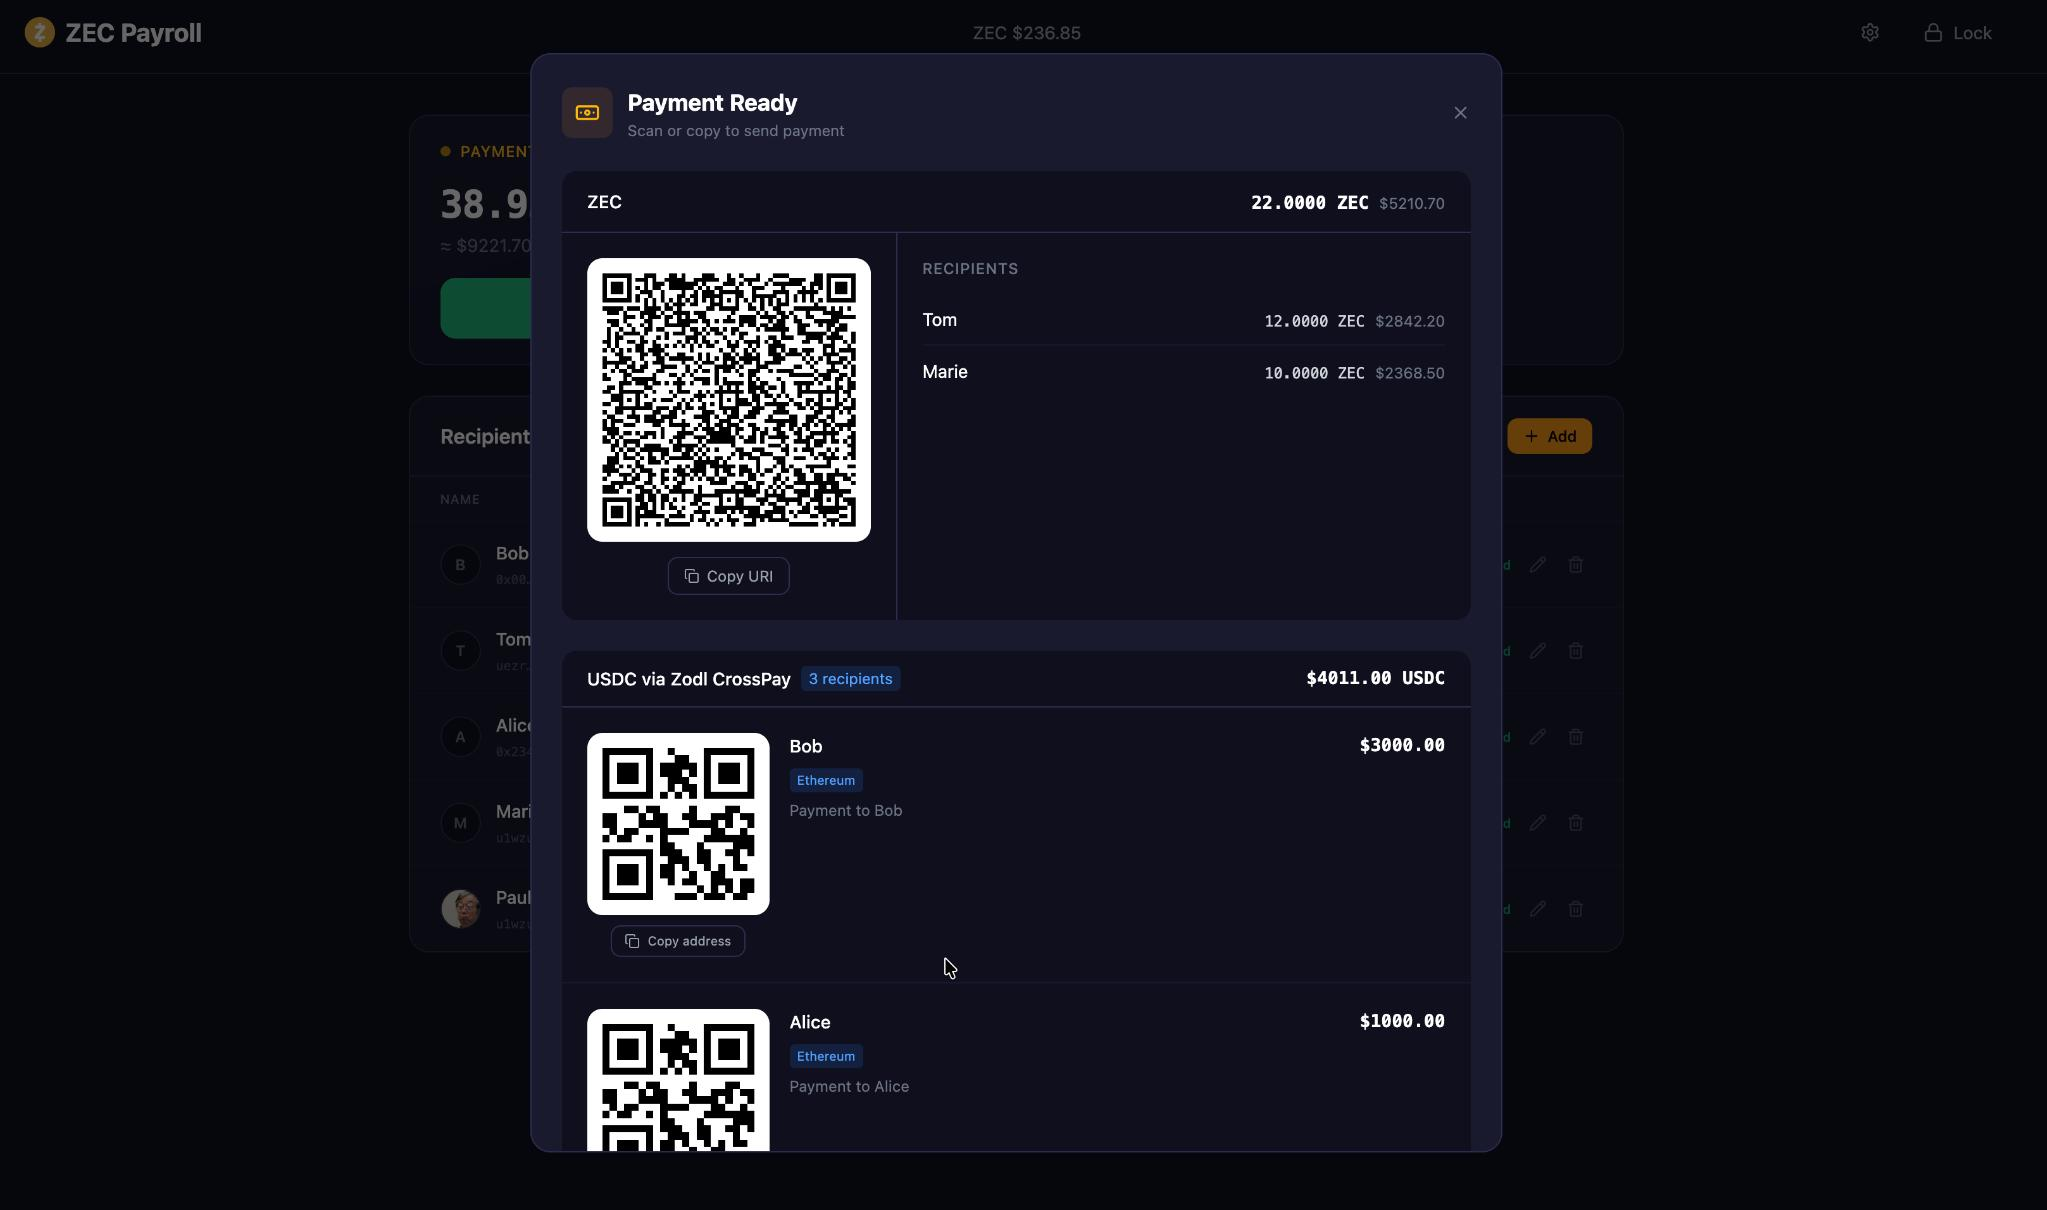
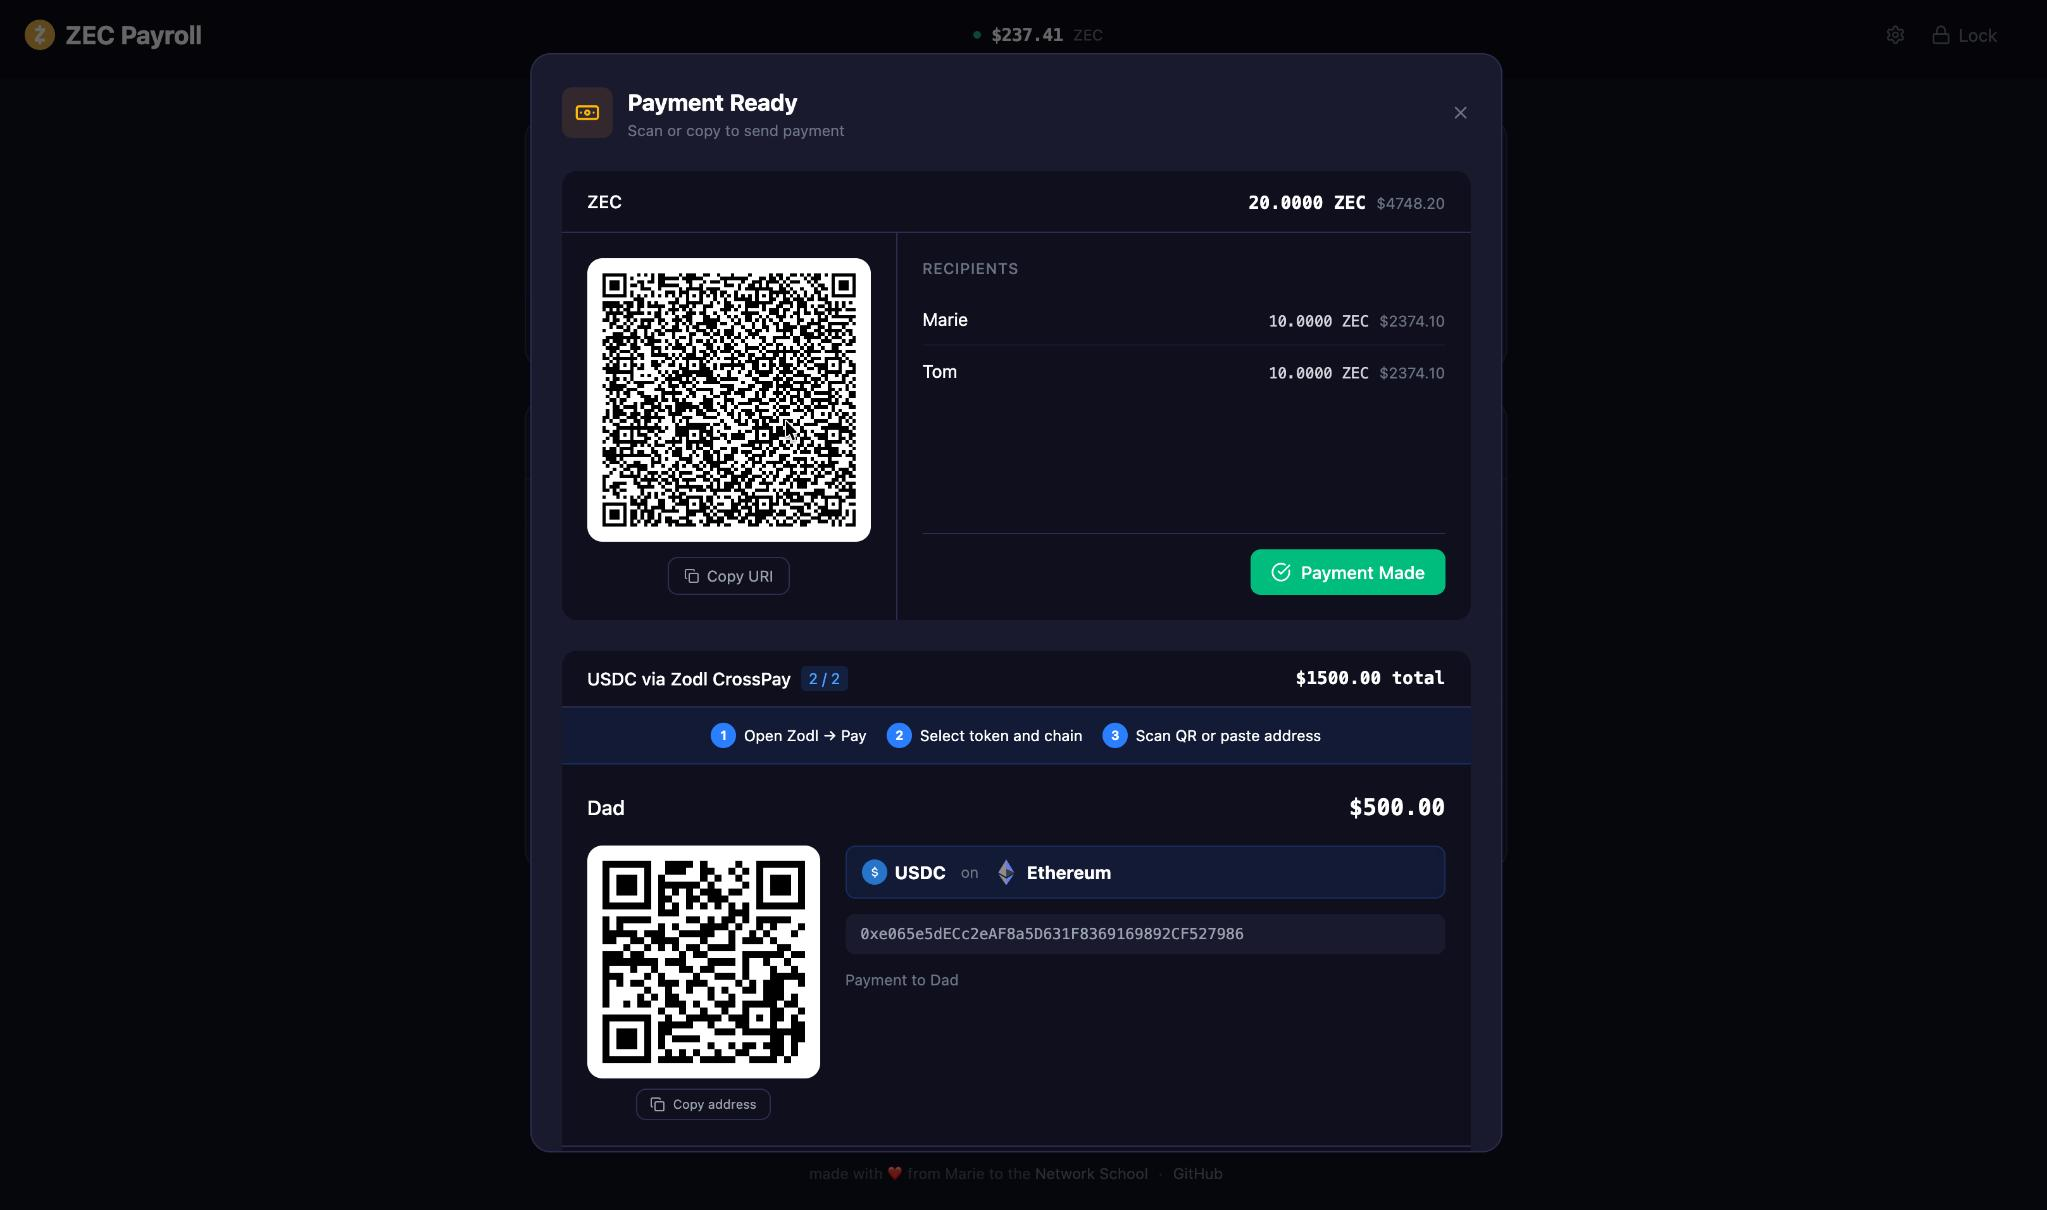
update pay design

diff --git a/web/src/App.tsx b/web/src/App.tsx
@@ -8,6 +8,7 @@ import { AddRecipientForm } from "./components/AddRecipientForm";
 import { EditRecipientForm } from "./components/EditRecipientForm";
 import { EditableRecipientInfo } from "./components/EditableRecipientInfo";
 import { TelegramSettings } from "./components/TelegramSettings";
+import { CHAINS } from "./components/ChainSelect";
 import { QRCodeSVG } from "qrcode.react";
 import {
   Lock, CheckCircle, Pencil, Settings, Search, Copy, Check,
@@ -51,6 +52,9 @@ function MainView({ onLock }: { onLock: () => void }) {
   const [priceLoading, setPriceLoading] = useState(false);
   const [payLoading, setPayLoading] = useState(false);
   const [confirmLoading, setConfirmLoading] = useState(false);
+  const [usdcStep, setUsdcStep] = useState(0);
+  const [usdcConfirmed, setUsdcConfirmed] = useState<Set<number>>(new Set());
+  const [zecConfirmed, setZecConfirmed] = useState(false);
   const [error, setError] = useState("");
 
   const [showAdd, setShowAdd] = useState(false);
@@ -184,6 +188,9 @@ function MainView({ onLock }: { onLock: () => void }) {
     setPayLoading(true);
     try {
       const data = await api.pay();
+      setUsdcStep(0);
+      setUsdcConfirmed(new Set());
+      setZecConfirmed(false);
       setPayResult(data);
     } catch (e: unknown) {
       setError(e instanceof Error ? e.message : "Failed to generate payment");
@@ -515,25 +522,52 @@ function MainView({ onLock }: { onLock: () => void }) {
 
           {payResult.zec && (
             <PaymentCard title="ZEC" uri={payResult.zec.uri} payments={payResult.zec.payments}
-              totalZec={payResult.zec.totalZec} zecPrice={price} copied={copied} onCopy={copyUri} />
+              totalZec={payResult.zec.totalZec} zecPrice={price} copied={copied} onCopy={copyUri}
+              confirmed={zecConfirmed} onConfirm={() => setZecConfirmed(true)} />
           )}
-          {payResult.usdc?.crossPay && payResult.usdc.crossPay.length > 0 && (
-            <div className="bg-[#0f0f1e] rounded-xl overflow-hidden">
-              <div className="px-5 py-3 border-b border-[#2d2d52] flex items-center justify-between">
-                <div className="flex items-center gap-2">
-                  <h3 className="text-white font-medium text-sm">USDC via Zodl CrossPay</h3>
-                  <span className="text-xs px-1.5 py-0.5 rounded bg-blue-500/15 text-blue-400">
-                    {payResult.usdc.crossPay.length} recipient{payResult.usdc.crossPay.length !== 1 ? "s" : ""}
-                  </span>
+          {payResult.usdc?.crossPay && payResult.usdc.crossPay.length > 0 && (() => {
+            const cp = payResult.usdc!.crossPay[usdcStep];
+            const total = payResult.usdc!.crossPay.length;
+            return (
+              <div className="bg-[#0f0f1e] rounded-xl overflow-hidden">
+                <div className="px-5 py-3 border-b border-[#2d2d52] flex items-center justify-between">
+                  <div className="flex items-center gap-2">
+                    <h3 className="text-white font-medium text-sm">USDC via Zodl CrossPay</h3>
+                    <span className="text-xs px-1.5 py-0.5 rounded bg-blue-500/15 text-blue-400">
+                      {usdcStep + 1} / {total}
+                    </span>
+                  </div>
+                  <span className="text-white font-bold font-mono text-sm">${payResult.usdc!.totalUsdc.toFixed(2)} total</span>
                 </div>
-                <span className="text-white font-bold font-mono text-sm">${payResult.usdc.totalUsdc.toFixed(2)} USDC</span>
-              </div>
-              <div className="divide-y divide-[#2d2d52]/30">
-                {payResult.usdc.crossPay.map((cp) => (
-                  <div key={cp.name} className="flex flex-col sm:flex-row gap-4 p-5">
+
+                {/* Step-by-step explainer */}
+                <div className="bg-blue-500/10 px-5 py-3 border-b border-blue-500/20">
+                  <div className="flex gap-4 text-xs justify-center">
+                    <div className="flex items-center gap-1.5 text-white">
+                      <span className="w-5 h-5 rounded-full bg-blue-500 flex items-center justify-center text-[10px] font-bold text-white">1</span>
+                      Open Zodl → Pay
+                    </div>
+                    <div className="flex items-center gap-1.5 text-white">
+                      <span className="w-5 h-5 rounded-full bg-blue-500 flex items-center justify-center text-[10px] font-bold text-white">2</span>
+                      Select token and chain
+                    </div>
+                    <div className="flex items-center gap-1.5 text-white">
+                      <span className="w-5 h-5 rounded-full bg-blue-500 flex items-center justify-center text-[10px] font-bold text-white">3</span>
+                      Scan QR or paste address
+                    </div>
+                  </div>
+                </div>
+
+                {/* Current recipient */}
+                <div className="p-5">
+                  <div className="flex items-center justify-between mb-4">
+                    <span className="text-white font-medium">{cp.name}</span>
+                    <span className="text-white font-mono font-bold text-lg">${cp.amount.toFixed(2)}</span>
+                  </div>
+                  <div className="flex flex-col sm:flex-row gap-5">
                     <div className="flex flex-col items-center gap-2 shrink-0">
                       <div className="bg-white rounded-xl p-3">
-                        <QRCodeSVG value={cp.usdcAddress} size={120} />
+                        <QRCodeSVG value={cp.usdcAddress} size={160} />
                       </div>
                       <button onClick={() => copyUri(cp.usdcAddress, cp.name)}
                         className="flex items-center gap-1.5 px-2.5 py-1 text-[10px] rounded-lg border border-[#2d2d52] text-gray-400 hover:text-blue-400 hover:border-blue-500/30 transition-colors">
@@ -541,56 +575,102 @@ function MainView({ onLock }: { onLock: () => void }) {
                         {copied === cp.name ? "Copied!" : "Copy address"}
                       </button>
                     </div>
-                    <div className="flex-1 min-w-0">
-                      <div className="flex items-center justify-between mb-2">
-                        <span className="text-white font-medium text-sm">{cp.name}</span>
-                        <span className="text-white font-mono font-bold text-sm">${cp.amount.toFixed(2)}</span>
-                      </div>
-                      <div className="space-y-1.5">
-                        <div className="flex items-center gap-1.5">
-                          <span className="text-[10px] px-1.5 py-0.5 rounded bg-blue-500/15 text-blue-400 capitalize">{cp.usdcChain}</span>
+                    {(() => {
+                      const chain = CHAINS.find((c) => c.value === cp.usdcChain);
+                      return (
+                        <div className="flex-1 min-w-0 space-y-3">
+                          <div className="flex items-center gap-3 bg-blue-500/10 border border-blue-500/20 rounded-lg px-3 py-2.5">
+                            <div className="flex items-center gap-1.5">
+                              <svg viewBox="0 0 32 32" className="w-5 h-5"><circle cx="16" cy="16" r="16" fill="#2775CA"/><path fill="#fff" d="M20.3 18.4c0-2.1-1.3-2.8-3.8-3.1-1.8-.3-2.2-.7-2.2-1.5s.7-1.3 1.8-1.3c1 0 1.6.4 1.9 1.2a.4.4 0 00.4.3h1a.4.4 0 00.4-.4 3 3 0 00-2.7-2.5v-1.5a.4.4 0 00-.4-.4h-.9a.4.4 0 00-.4.4V11c-1.8.2-3 1.3-3 2.8 0 2 1.2 2.7 3.8 3 1.7.3 2.2.8 2.2 1.6s-.9 1.4-2 1.4c-1.5 0-2-.6-2.2-1.4a.4.4 0 00-.4-.3h-1a.4.4 0 00-.3.5c.3 1.4 1.2 2.3 3 2.5v1.5c0 .2.1.4.3.4h1c.2 0 .4-.2.4-.4v-1.5c1.8-.3 3-1.4 3-3z"/></svg>
+                              <span className="text-sm font-bold text-white">USDC</span>
+                            </div>
+                            <span className="text-gray-500 text-xs">on</span>
+                            <div className="flex items-center gap-1.5">
+                              {chain && <div className="w-5 h-5">{chain.icon}</div>}
+                              <span className="text-sm font-bold text-white">{chain?.label ?? cp.usdcChain}</span>
+                            </div>
+                          </div>
+                          <code className="text-xs text-gray-400 break-all block bg-[#1a1a2e] rounded-lg px-3 py-2">{cp.usdcAddress}</code>
+                          {cp.memo && <p className="text-xs text-gray-500">{cp.memo}</p>}
                         </div>
-                        <code className="text-xs text-gray-400 break-all block">{cp.usdcAddress}</code>
-                        {cp.memo && <p className="text-xs text-gray-500">{cp.memo}</p>}
-                      </div>
-                    </div>
+                      );
+                    })()}
                   </div>
-                ))}
-              </div>
-            </div>
-          )}
+                </div>
 
-          <div className="flex gap-3 pt-2">
-            <button onClick={() => setPayResult(null)}
-              className="flex-1 py-2.5 bg-[#2d2d52] text-gray-300 rounded-lg font-medium hover:bg-[#3d3d62] transition-colors text-sm">
-              Close
-            </button>
-            <button disabled={confirmLoading} onClick={async () => {
-              setConfirmLoading(true);
-              try {
-                const totalZec = payResult.zec?.totalZec ?? 0;
-                const count = (payResult.zec?.payments.length ?? 0) + (payResult.usdc?.crossPay?.length ?? 0);
-                await api.confirmPay();
-                setPayResult(null);
-                setPreview(null);
-                setLastPayment({ totalZec, totalUsd: price ? totalZec * price : 0, count });
-                refresh();
-                setTimeout(() => setLastPayment(null), 8000);
-              } catch (e: unknown) {
-                setError(e instanceof Error ? e.message : "Failed to confirm payment");
-              } finally {
-                setConfirmLoading(false);
-              }
-            }}
-              className="flex-1 py-2.5 bg-emerald-500 text-white rounded-lg font-medium hover:bg-emerald-400 disabled:opacity-50 transition-colors text-sm flex items-center justify-center gap-2">
-              {confirmLoading ? (
-                <RefreshCw className="w-4 h-4 animate-spin" />
-              ) : (
-                <CheckCircle className="w-4 h-4" />
-              )}
-              {confirmLoading ? "Confirming..." : "Payment Made"}
-            </button>
-          </div>
+                {/* Navigation & Confirm */}
+                <div className="px-5 py-3 border-t border-[#2d2d52] flex items-center justify-between">
+                  <div className="flex items-center gap-3">
+                    {total > 1 && (
+                      <>
+                        <button onClick={() => setUsdcStep(Math.max(0, usdcStep - 1))} disabled={usdcStep === 0}
+                          className="px-3 py-1.5 text-xs text-gray-400 hover:text-white transition-colors disabled:opacity-30">
+                          Previous
+                        </button>
+                        <div className="flex gap-1.5">
+                          {payResult.usdc!.crossPay.map((_, i) => (
+                            <button key={i} onClick={() => setUsdcStep(i)}
+                              className={`w-2.5 h-2.5 rounded-full transition-colors ${usdcConfirmed.has(i) ? "bg-emerald-400" : i === usdcStep ? "bg-blue-400" : "bg-[#2d2d52] hover:bg-[#3d3d62]"}`} />
+                          ))}
+                        </div>
+                        <button onClick={() => setUsdcStep(Math.min(total - 1, usdcStep + 1))} disabled={usdcStep === total - 1}
+                          className="px-3 py-1.5 text-xs text-blue-400 hover:text-blue-300 transition-colors disabled:opacity-30">
+                          Next
+                        </button>
+                      </>
+                    )}
+                  </div>
+                  {usdcConfirmed.has(usdcStep) ? (
+                    <div className="flex items-center gap-1.5 text-emerald-400 text-sm font-medium">
+                      <CheckCircle className="w-4 h-4" /> Paid
+                    </div>
+                  ) : (
+                    <button onClick={() => {
+                      const next = new Set(usdcConfirmed);
+                      next.add(usdcStep);
+                      setUsdcConfirmed(next);
+                      if (usdcStep < total - 1) setUsdcStep(usdcStep + 1);
+                    }}
+                      className="px-4 py-2 bg-emerald-500 text-white rounded-lg font-medium hover:bg-emerald-400 transition-colors text-sm flex items-center gap-2">
+                      <CheckCircle className="w-4 h-4" /> Payment Made
+                    </button>
+                  )}
+                </div>
+              </div>
+            );
+          })()}
+
+          {(() => {
+            const hasZec = !!payResult.zec;
+            const usdcTotal = payResult.usdc?.crossPay?.length ?? 0;
+            const allDone = (!hasZec || zecConfirmed) && usdcConfirmed.size >= usdcTotal;
+            return allDone ? (
+              <AllPaidBanner onComplete={async () => {
+                setConfirmLoading(true);
+                try {
+                  const totalZec = payResult.zec?.totalZec ?? 0;
+                  const count = (payResult.zec?.payments.length ?? 0) + usdcTotal;
+                  await api.confirmPay();
+                  setPayResult(null);
+                  setPreview(null);
+                  setLastPayment({ totalZec, totalUsd: price ? totalZec * price : 0, count });
+                  refresh();
+                  setTimeout(() => setLastPayment(null), 8000);
+                } catch (e: unknown) {
+                  setError(e instanceof Error ? e.message : "Failed to confirm payment");
+                } finally {
+                  setConfirmLoading(false);
+                }
+              }} />
+            ) : (
+              <div className="pt-2">
+                <button onClick={() => setPayResult(null)}
+                  className="w-full py-2.5 bg-[#2d2d52] text-gray-300 rounded-lg font-medium hover:bg-[#3d3d62] transition-colors text-sm">
+                  Close
+                </button>
+              </div>
+            );
+          })()}
         </div>)}
       </Modal>
 
@@ -738,6 +818,26 @@ function MainView({ onLock }: { onLock: () => void }) {
           </button>
         </>)}
       </Modal>
+    </div>
+  );
+}
+
+function AllPaidBanner({ onComplete }: { onComplete: () => void }) {
+  const [phase, setPhase] = useState<"celebrate" | "closing">("celebrate");
+
+  useEffect(() => {
+    const t1 = setTimeout(() => setPhase("closing"), 1500);
+    const t2 = setTimeout(() => onComplete(), 2500);
+    return () => { clearTimeout(t1); clearTimeout(t2); };
+  }, [onComplete]);
+
+  return (
+    <div className={`pt-4 text-center transition-opacity duration-500 ${phase === "closing" ? "opacity-0" : "opacity-100"}`}>
+      <div className="bg-emerald-500/10 border border-emerald-500/20 rounded-xl py-6 px-4">
+        <div className="text-4xl mb-3 animate-bounce">&#10003;</div>
+        <div className="text-emerald-400 text-lg font-bold">All payments confirmed!</div>
+        <div className="text-gray-500 text-sm mt-1">Closing...</div>
+      </div>
     </div>
   );
 }

diff --git a/web/src/components/PaymentCard.tsx b/web/src/components/PaymentCard.tsx
@@ -1,7 +1,7 @@
 import { QRCodeSVG } from "qrcode.react";
-import { Copy, Check } from "lucide-react";
+import { Copy, Check, CheckCircle } from "lucide-react";
 
-export function PaymentCard({ title, uri, payments, totalZec, zecPrice, note, copied, onCopy }: {
+export function PaymentCard({ title, uri, payments, totalZec, zecPrice, note, copied, onCopy, confirmed, onConfirm }: {
   title: string;
   uri: string;
   payments: { name: string; amountZec: number; currency: string }[];
@@ -10,6 +10,8 @@ export function PaymentCard({ title, uri, payments, totalZec, zecPrice, note, co
   note?: string;
   copied: string | null;
   onCopy: (uri: string, label: string) => void;
+  confirmed?: boolean;
+  onConfirm?: () => void;
 }) {
   return (
     <div className="bg-[#0f0f1e] rounded-xl overflow-hidden">
@@ -30,9 +32,9 @@ export function PaymentCard({ title, uri, payments, totalZec, zecPrice, note, co
             {copied === title ? "Copied!" : "Copy URI"}
           </button>
         </div>
-        <div className="flex-1 p-5">
+        <div className="flex-1 p-5 flex flex-col">
           <div className="text-xs text-gray-500 uppercase tracking-wider font-medium mb-3">Recipients</div>
-          <div className="space-y-0">
+          <div className="space-y-0 flex-1">
             {payments.map((p) => (
               <div key={p.name} className="flex items-center justify-between py-2 border-b border-[#2d2d52]/30 last:border-0">
                 <span className="text-white text-sm">{p.name}</span>
@@ -43,6 +45,20 @@ export function PaymentCard({ title, uri, payments, totalZec, zecPrice, note, co
               </div>
             ))}
           </div>
+          {onConfirm && (
+            <div className="flex justify-end mt-4 pt-3 border-t border-[#2d2d52]">
+              {confirmed ? (
+                <div className="flex items-center gap-1.5 text-emerald-400 text-sm font-medium">
+                  <CheckCircle className="w-4 h-4" /> Paid
+                </div>
+              ) : (
+                <button onClick={onConfirm}
+                  className="px-4 py-2 bg-emerald-500 text-white rounded-lg font-medium hover:bg-emerald-400 transition-colors text-sm flex items-center gap-2">
+                  <CheckCircle className="w-4 h-4" /> Payment Made
+                </button>
+              )}
+            </div>
+          )}
         </div>
       </div>
     </div>

diff --git a/web/src/components/ChainSelect.tsx b/web/src/components/ChainSelect.tsx
@@ -1,7 +1,7 @@
 import { useState, useEffect, useRef, type ReactNode } from "react";
 import { Check } from "lucide-react";
 
-const CHAINS: { value: string; label: string; icon: ReactNode }[] = [
+export const CHAINS: { value: string; label: string; icon: ReactNode }[] = [
   {
     value: "ethereum", label: "Ethereum",
     icon: <svg viewBox="0 0 32 32" className="w-5 h-5"><path fill="#627EEA" d="M16 0l-.4.2v21.8l.4.2 10-5.9z"/><path fill="#8C8C8C" d="M16 0L6 16.3l10 5.9V0z"/><path fill="#627EEA" d="M16 24.1l-.2.3v7.7l.2.5L26 18.2z"/><path fill="#8C8C8C" d="M16 32.6V24.1L6 18.2z"/><path fill="#3C3C3B" d="M16 22.2l10-5.9L16 12z"/><path fill="#8C8C8C" d="M6 16.3l10 5.9V12z"/></svg>,
